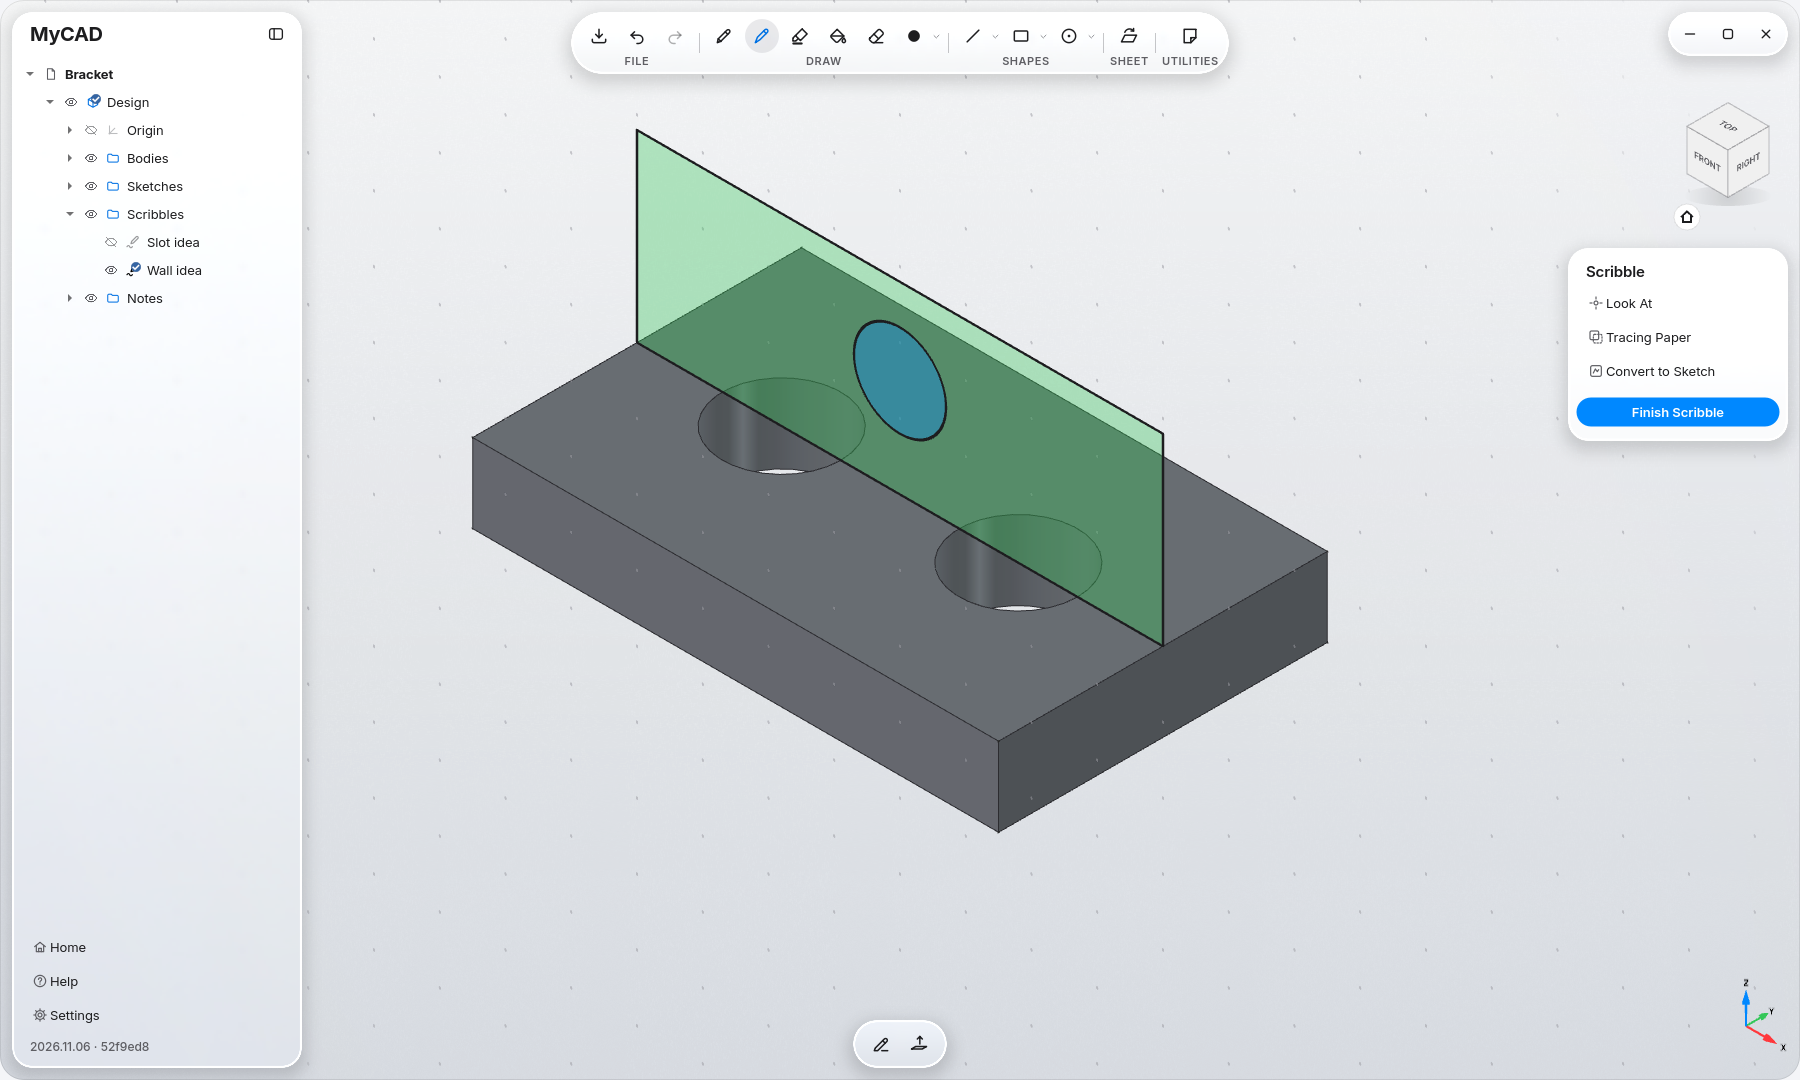
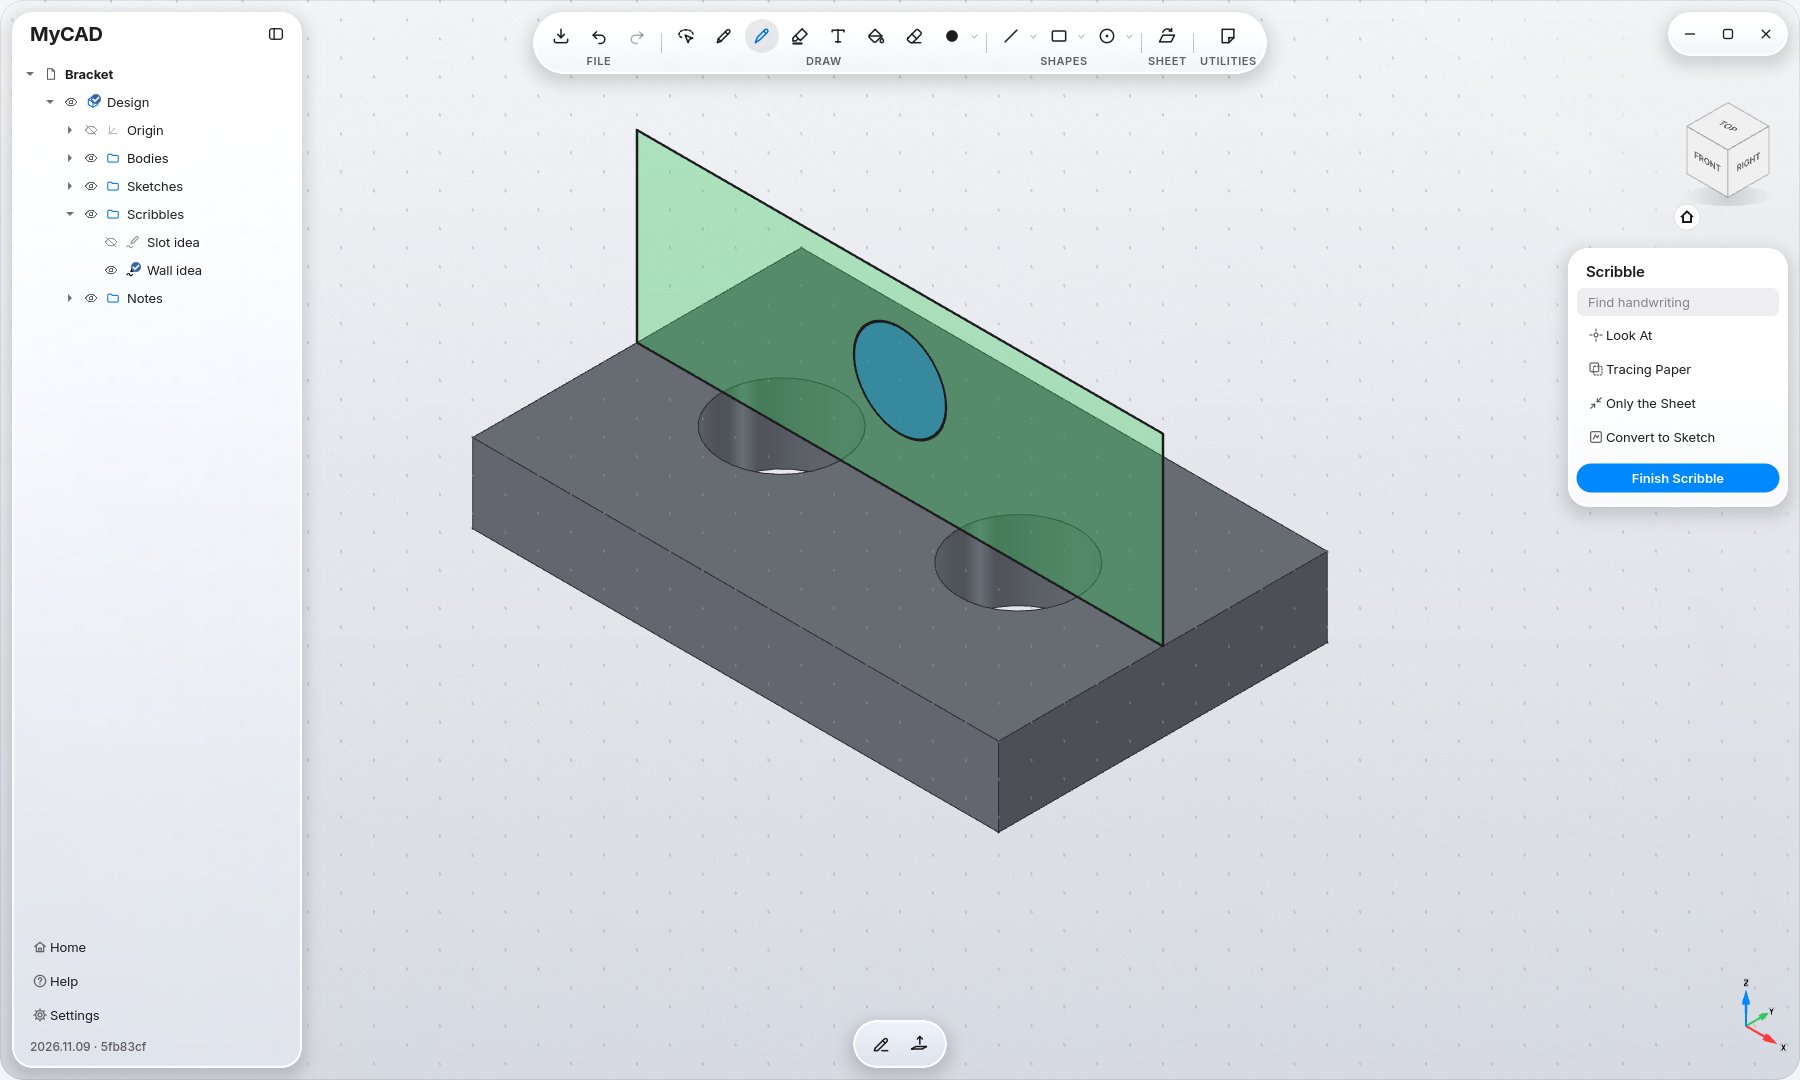
README: Scribble-Bilder und -Texte zur neuen Optik
scribble.png und scribble-3d.png neu aus tools/readme_images.py (nur
diese zwei; Arbeitsbereich, Notizen und Startseite bleiben): kühles
Papier mit engem Punktraster, Auswählen und Text in der Toolbar,
Handschrift suchen und Nur das Blatt in der Palette. Text: Papier im
Hintergrund der App, Tinte im Dunkeln heller; Tech specs mit der
Leiste an der Auswahl und Nur das Blatt.

diff --git a/README.md b/README.md
@@ -83,7 +83,7 @@ Closed a note? It's still under **Notes** in the browser, double-click to open i
 
 </div>
 
-Click **Scribble** in the toolbar and a sheet of paper fills the view. Grab your pen tablet and draw with **Pencil**, **Fineliner** or **Marker** in five colors. Press harder and the line gets thicker. Flip the pen over to erase. No eraser on your pen? Press **E**, and **E** again takes you back to the pen.
+Click **Scribble** in the toolbar and a sheet of paper with a fine dot grid fills the view. It takes on MyCAD's own light or dark background, and in dark mode your inks get lighter so blue and yellow stay easy to read. Grab your pen tablet and draw with **Pencil**, **Fineliner** or **Marker** in five colors. Press harder and the line gets thicker. Flip the pen over to erase. No eraser on your pen? Press **E**, and **E** again takes you back to the pen.
 
 Hold the pen still at the end of a stroke and it straightens into a clean line, circle or rectangle. Lines snap to horizontal, vertical and to the ends of your other strokes.
 
@@ -163,7 +163,7 @@ Bodies can also have real textures: six woods (**Oak**, **Walnut**, **Maple**, *
 | **Sketch** | 12 drawing tools, 7 modify tools, 9 constraints, one dimension tool |
 | **Solids** | 16 create, 12 modify and 6 construction tools |
 | **Notes** | Saved in the design, lines ending in `=` are calculated |
-| **Scribbles** | Pen tablet with pressure, 7 shapes, fill, text, select and move, sheets in 3D, convert to sketch, handwriting tidy-up, offline handwriting recognition (find, CAD notation, written dimensions) |
+| **Scribbles** | Pen tablet with pressure, 7 shapes, fill, text, select and move with a color and delete bar, sheets in 3D, convert to sketch, handwriting tidy-up, offline handwriting recognition (find, CAD notation, written dimensions), Only the Sheet mode |
 | **Export** | STL · 3MF · STEP · DXF (sketches) |
 | **Import** | STEP · DXF · SVG |
 | **File format** | `.mycad` (ZIP with preview image, same content as FreeCAD's FCStd); `.FCStd` files open too |
